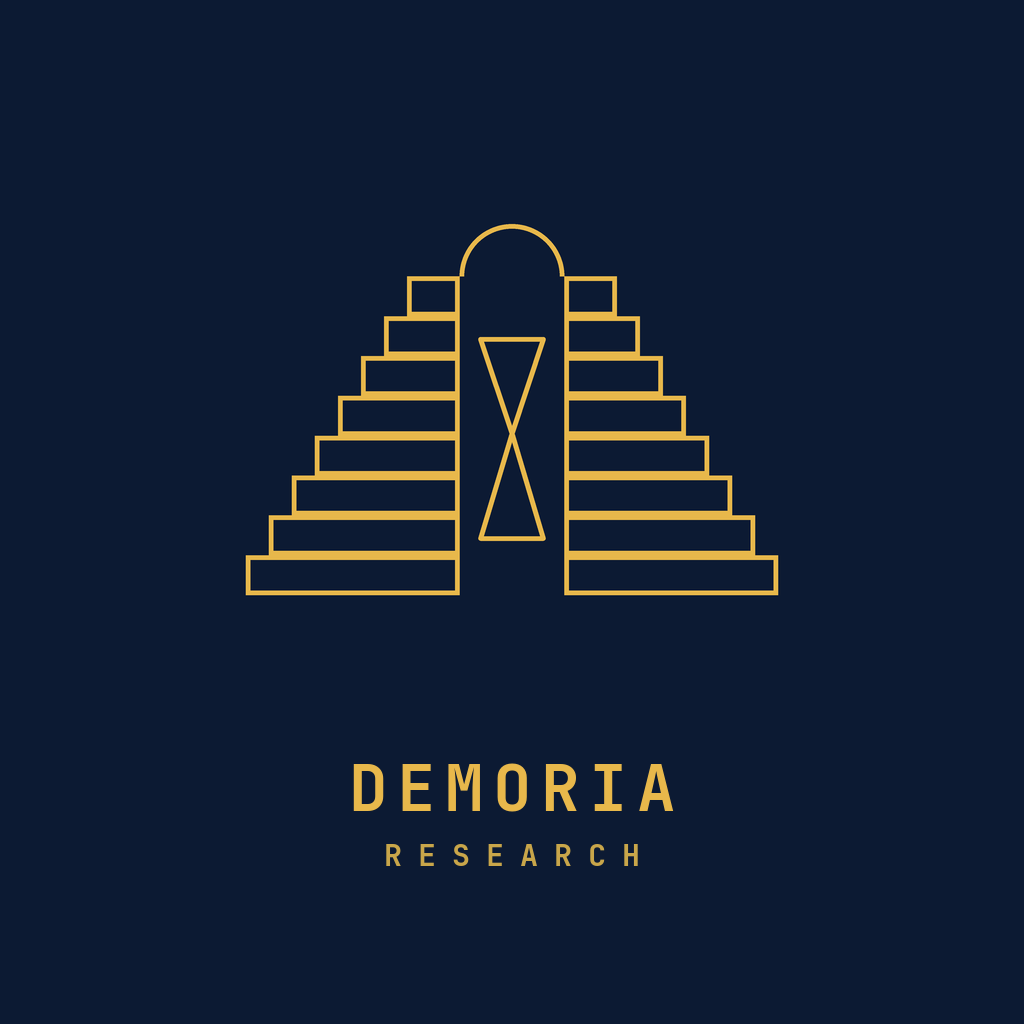
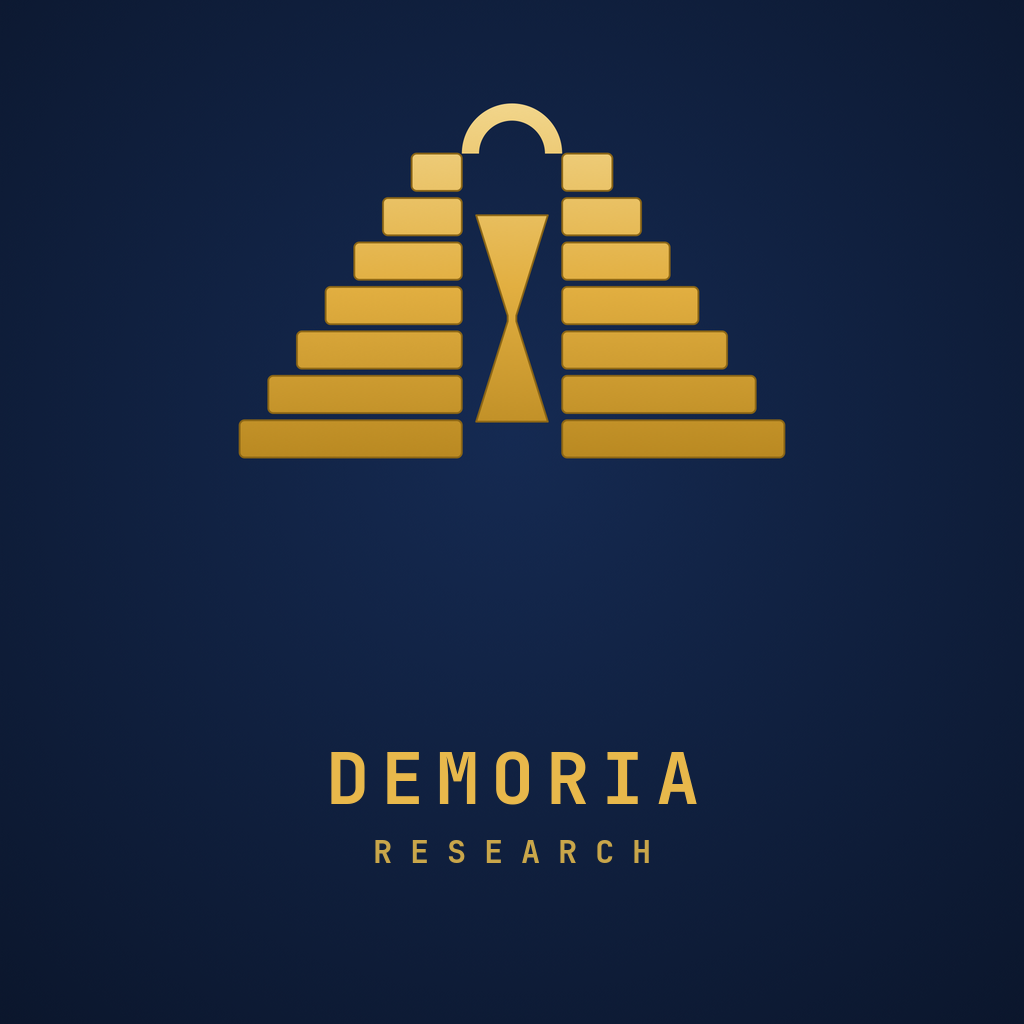
Brand v2: refined solid-gold sigil
Redesign the sigil marks from thin line-art to solid metallic-gold
geometry: filled stepped bars with rounded corners, a gold arch springing
from the inner top corners, a solid hourglass, and a vertical gold
gradient for depth. Built as vector SVG (master demoria-sigil.svg kept),
rendered at 2048 via QuickLook/WebKit; the transparent variant recovers
true alpha by un-blending black and white renders. Same four deliverables
regenerated at 1024.

Changed region(s): [[0.2188, 0.125, 0.7812, 0.5938], [0.3125, 0.7188, 0.6875, 0.8438], [0.4688, 0.0938, 0.5312, 0.125]]

diff --git a/_build_brand_png.py b/_build_brand_png.py
@@ -1,91 +1,110 @@
 #!/usr/bin/env python3
-"""Brand PNGs: the Demoria sigil (stepped double pyramid + arch + hourglass),
-redrawn from the site's exact SVG geometry at high resolution. Writes
-public/brand/*.png — profile-picture squares (navy, cream, transparent) and a
-lockup with the wordmark.
+"""Demoria brand marks, v2 — refined solid-gold sigil (stepped double pyramid,
+arch, hourglass) built as vector SVG, rendered to PNG via macOS QuickLook
+(WebKit), finished with PIL. Writes public/brand/:
+
+  demoria-sigil.svg                    master vector (transparent)
+  demoria-sigil-transparent-1024.png
+  demoria-profile-navy-1024.png        <- primary avatar
+  demoria-profile-cream-1024.png
+  demoria-lockup-navy-1024.png         sigil + wordmark
 
   python3 _build_brand_png.py
 """
-import os
+import os, subprocess
 from PIL import Image, ImageDraw, ImageFont
 
-NAVY = (12, 26, 51, 255); CREAM = (244, 236, 211, 255); GOLD = (232, 184, 75, 255)
 OUT = 'public/brand'; os.makedirs(OUT, exist_ok=True)
-SS = 4  # supersampling
-
-# --- exact geometry from the site's SVG (viewBox 600x500) ---
-RECTS = [(200,100,50,38),(178,138,72,38),(156,176,94,38),(134,214,116,38),
-         (112,252,138,38),(90,290,160,38),(68,328,182,38),(46,366,204,38),
-         (350,100,50,38),(350,138,72,38),(350,176,94,38),(350,214,116,38),
-         (350,252,138,38),(350,290,160,38),(350,328,182,38),(350,366,204,38)]
-TRIS = [[(270,160),(330,160),(300,250)],[(270,350),(330,350),(300,250)]]
-ARCH = (250, 50, 350, 150)          # bbox of the r=50 circle centred (300,100)
-SW = 4.5
-BX0, BY0, BX1, BY1 = 46, 50, 554, 404   # artwork bounds
+GOLD = (232, 184, 75, 255); GOLDD = (201, 166, 74, 255)
 
 
-def draw_sigil(canvas_px, colour, scale_frac=0.72, dy_frac=0.0):
-    """Render the sigil centred on a transparent canvas of canvas_px squared."""
-    px = canvas_px * SS
-    img = Image.new('RGBA', (px, px), (0, 0, 0, 0))
-    d = ImageDraw.Draw(img)
-    art_w, art_h = BX1 - BX0, BY1 - BY0
-    s = px * scale_frac / max(art_w, art_h)
-    ox = (px - art_w * s) / 2 - BX0 * s
-    oy = (px - art_h * s) / 2 - BY0 * s + dy_frac * px
-    w = max(2, round(SW * s))
-    X = lambda x: x * s + ox
-    Y = lambda y: y * s + oy
-    for (x, y, ww, hh) in RECTS:
-        d.rectangle([X(x), Y(y), X(x + ww), Y(y + hh)], outline=colour, width=w)
-    d.arc([X(ARCH[0]), Y(ARCH[1]), X(ARCH[2]), Y(ARCH[3])], 180, 360, fill=colour, width=w)
-    for t in TRIS:
-        pts = [(X(a), Y(b)) for a, b in t]
-        d.line(pts + [pts[0], pts[1]], fill=colour, width=w, joint='curve')
-    return img
+def mark(fill_ref, stroke):
+    bars = []
+    widths = [70, 110, 150, 190, 230, 270, 310]
+    for i, w in enumerate(widths):
+        y = 250 + i * 62
+        bars.append(f'<rect x="{430-w}" y="{y}" width="{w}" height="52" rx="7" fill="{fill_ref}" stroke="{stroke}" stroke-width="2.5"/>')
+        bars.append(f'<rect x="570" y="{y}" width="{w}" height="52" rx="7" fill="{fill_ref}" stroke="{stroke}" stroke-width="2.5"/>')
+    # arch: stroke outer edge lands exactly on the inner top corners (430/570, y250)
+    arch = ('<path d="M 442 250 A 58 58 0 0 1 558 250" fill="none" '
+            f'stroke="{fill_ref}" stroke-width="24" stroke-linecap="butt"/>')
+    hg = ('<path d="M 450 336 H 550 L 506 476 V 484 L 550 624 H 450 L 494 484 V 476 Z" '
+          f'fill="{fill_ref}" stroke="{stroke}" stroke-width="2.5" stroke-linejoin="round"/>')
+    return '\n'.join(bars) + '\n' + arch + '\n' + hg
+
+
+GOLD_GRAD = '''<linearGradient id="au" x1="0" y1="170" x2="0" y2="700" gradientUnits="userSpaceOnUse">
+<stop offset="0" stop-color="#f2d78e"/><stop offset="0.5" stop-color="#e2af41"/><stop offset="1" stop-color="#b5851e"/>
+</linearGradient>'''
+NAVY_BG = '''<radialGradient id="bg" cx="0.5" cy="0.42" r="0.85">
+<stop offset="0" stop-color="#152a52"/><stop offset="1" stop-color="#0a1428"/></radialGradient>'''
+NAVY_GRAD = '''<linearGradient id="nv" x1="0" y1="170" x2="0" y2="700" gradientUnits="userSpaceOnUse">
+<stop offset="0" stop-color="#1d3560"/><stop offset="1" stop-color="#0a1a38"/></linearGradient>'''
+
+
+def svg(inner, defs=''):
+    return f'<svg xmlns="http://www.w3.org/2000/svg" viewBox="0 0 1000 1000"><defs>{defs}</defs>{inner}</svg>'
+
+
+mk = mark('url(#au)', '#8a6516')
+mkn = mark('url(#nv)', '#0a1428')
+open(f'{OUT}/demoria-sigil.svg', 'w').write(svg(f'<g transform="translate(0,45)">{mk}</g>', GOLD_GRAD))
+open(f'{OUT}/_navy.svg', 'w').write(svg(f'<rect width="1000" height="1000" fill="url(#bg)"/><g transform="translate(0,45)">{mk}</g>', GOLD_GRAD + NAVY_BG))
+open(f'{OUT}/_cream.svg', 'w').write(svg(f'<rect width="1000" height="1000" fill="#f4ecd3"/><g transform="translate(0,45)">{mkn}</g>', NAVY_GRAD))
+# lockup base: mark raised + smaller, room for wordmark
+open(f'{OUT}/_lockup.svg', 'w').write(svg(
+    f'<rect width="1000" height="1000" fill="url(#bg)"/><g transform="translate(150,-25) scale(0.7)">{mk}</g>',
+    GOLD_GRAD + NAVY_BG))
+
+
+def ql(name):
+    subprocess.run(['qlmanage', '-t', '-s', '2048', '-o', OUT, f'{OUT}/{name}.svg'],
+                   capture_output=True, check=True)
+    return Image.open(f'{OUT}/{name}.svg.png').convert('RGBA')
 
 
 def save(img, name, px=1024):
-    img = img.resize((px, px), Image.LANCZOS)
-    img.save(f'{OUT}/{name}')
+    img.resize((px, px), Image.LANCZOS).save(f'{OUT}/{name}')
     print('wrote', f'{OUT}/{name}')
 
 
-# 1. transparent gold sigil
-sig = draw_sigil(1024, GOLD)
-save(sig, 'demoria-sigil-transparent-1024.png')
+# transparent: QuickLook flattens alpha, so un-blend from black + white renders
+open(f'{OUT}/_onwhite.svg', 'w').write(svg(f'<rect width="1000" height="1000" fill="#ffffff"/><g transform="translate(0,45)">{mk}</g>', GOLD_GRAD))
+open(f'{OUT}/_onblack.svg', 'w').write(svg(f'<rect width="1000" height="1000" fill="#000000"/><g transform="translate(0,45)">{mk}</g>', GOLD_GRAD))
+import numpy as np
+W_ = np.asarray(ql('_onwhite'), dtype=np.float64)[:, :, :3]
+B_ = np.asarray(ql('_onblack'), dtype=np.float64)[:, :, :3]
+alpha = 1.0 - (W_ - B_).mean(axis=2) / 255.0
+alpha = np.clip(alpha, 0, 1)
+with np.errstate(divide='ignore', invalid='ignore'):
+    rgb = np.where(alpha[..., None] > 1e-4, B_ / np.maximum(alpha[..., None], 1e-4), 0)
+rgba = np.dstack([np.clip(rgb, 0, 255), alpha * 255]).astype('uint8')
+save(Image.fromarray(rgba, 'RGBA'), 'demoria-sigil-transparent-1024.png')
+save(ql('_navy'), 'demoria-profile-navy-1024.png')
+save(ql('_cream'), 'demoria-profile-cream-1024.png')
 
-# 2. navy square (primary profile pic) — sigil sized for circular crops
-bg = Image.new('RGBA', (1024 * SS, 1024 * SS), NAVY)
-bg.alpha_composite(draw_sigil(1024, GOLD, scale_frac=0.62))
-save(bg, 'demoria-profile-navy-1024.png')
+lock = ql('_lockup').resize((1024, 1024), Image.LANCZOS)
+d = ImageDraw.Draw(lock)
 
-# 3. cream square (light variant), navy sigil
-bg = Image.new('RGBA', (1024 * SS, 1024 * SS), CREAM)
-bg.alpha_composite(draw_sigil(1024, NAVY, scale_frac=0.62))
-save(bg, 'demoria-profile-cream-1024.png')
 
-# 4. lockup: sigil + wordmark on navy
-bg = Image.new('RGBA', (1024 * SS, 1024 * SS), NAVY)
-bg.alpha_composite(draw_sigil(1024, GOLD, scale_frac=0.52, dy_frac=-0.10))
-small = bg.resize((1024, 1024), Image.LANCZOS)
-d = ImageDraw.Draw(small)
-f = ImageFont.truetype('_fonts/JetBrainsMono-Bold.ttf', 64)
-text = 'DEMORIA'
-tr = 10  # tracking px
-widths = [d.textlength(c, font=f) for c in text]
-total = sum(widths) + tr * (len(text) - 1)
-x = (1024 - total) / 2
-for c, wch in zip(text, widths):
-    d.text((x, 745), c, font=f, fill=GOLD)
-    x += wch + tr
-f2 = ImageFont.truetype('_fonts/JetBrainsMono-Bold.ttf', 30)
-text2 = 'RESEARCH'
-widths = [d.textlength(c, font=f2) for c in text2]
-total = sum(widths) + 16 * (len(text2) - 1)
-x = (1024 - total) / 2
-for c, wch in zip(text2, widths):
-    d.text((x, 835), c, font=f2, fill=(201, 166, 74, 255))
-    x += wch + 16
-small.save(f'{OUT}/demoria-lockup-navy-1024.png')
+def spaced(d, y, text, font, fill, tr):
+    widths = [d.textlength(c, font=font) for c in text]
+    x = (1024 - (sum(widths) + tr * (len(text) - 1))) / 2
+    for c, w in zip(text, widths):
+        d.text((x, y), c, font=font, fill=fill)
+        x += w + tr
+
+
+spaced(d, 730, 'DEMORIA', ImageFont.truetype('_fonts/JetBrainsMono-Bold.ttf', 72), GOLD, 12)
+spaced(d, 830, 'RESEARCH', ImageFont.truetype('_fonts/JetBrainsMono-Bold.ttf', 32), GOLDD, 18)
+lock.save(f'{OUT}/demoria-lockup-navy-1024.png')
 print('wrote', f'{OUT}/demoria-lockup-navy-1024.png')
+
+for t in ['_navy', '_cream', '_lockup', '_onwhite', '_onblack']:
+    for ext in ['.svg', '.svg.png']:
+        p = f'{OUT}/{t}{ext}'
+        if os.path.exists(p):
+            os.remove(p)
+p=f'{OUT}/demoria-sigil.svg.png'
+if os.path.exists(p): os.remove(p)
+print('cleaned temp files')
